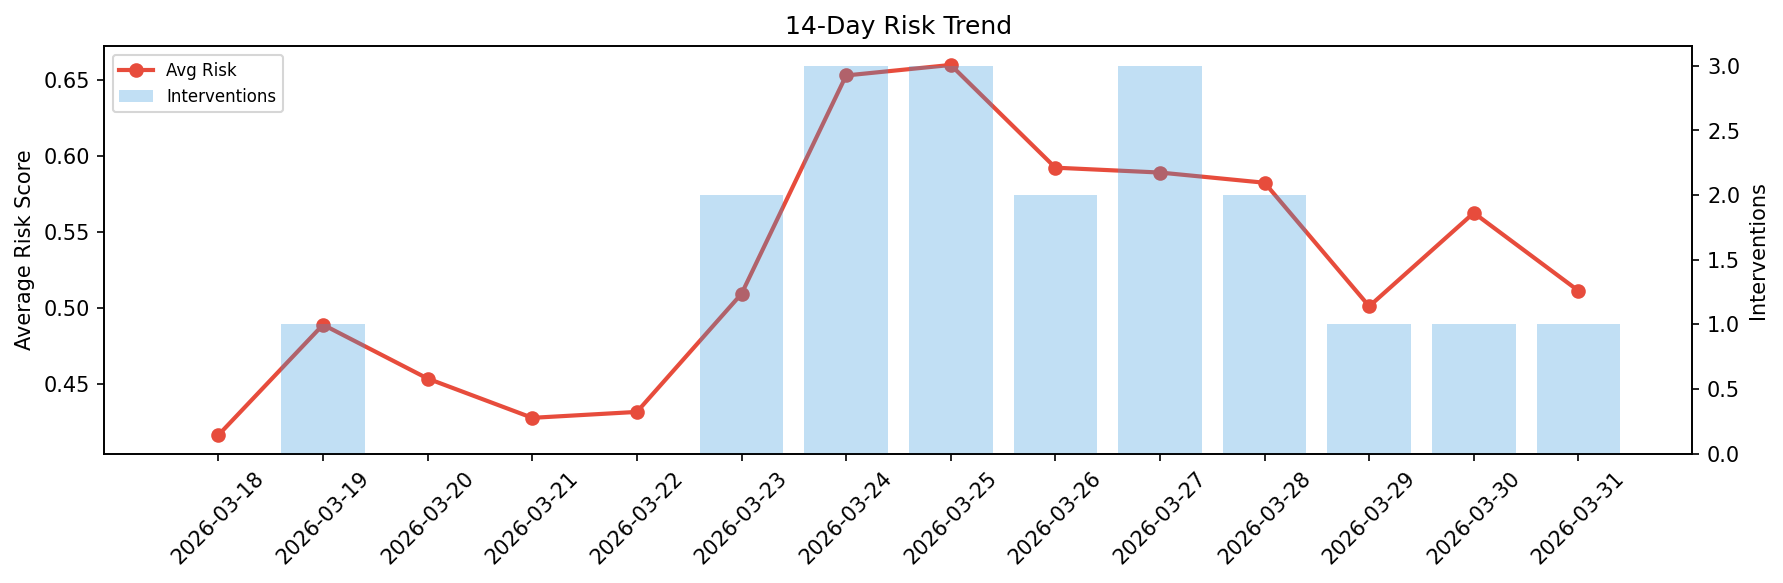
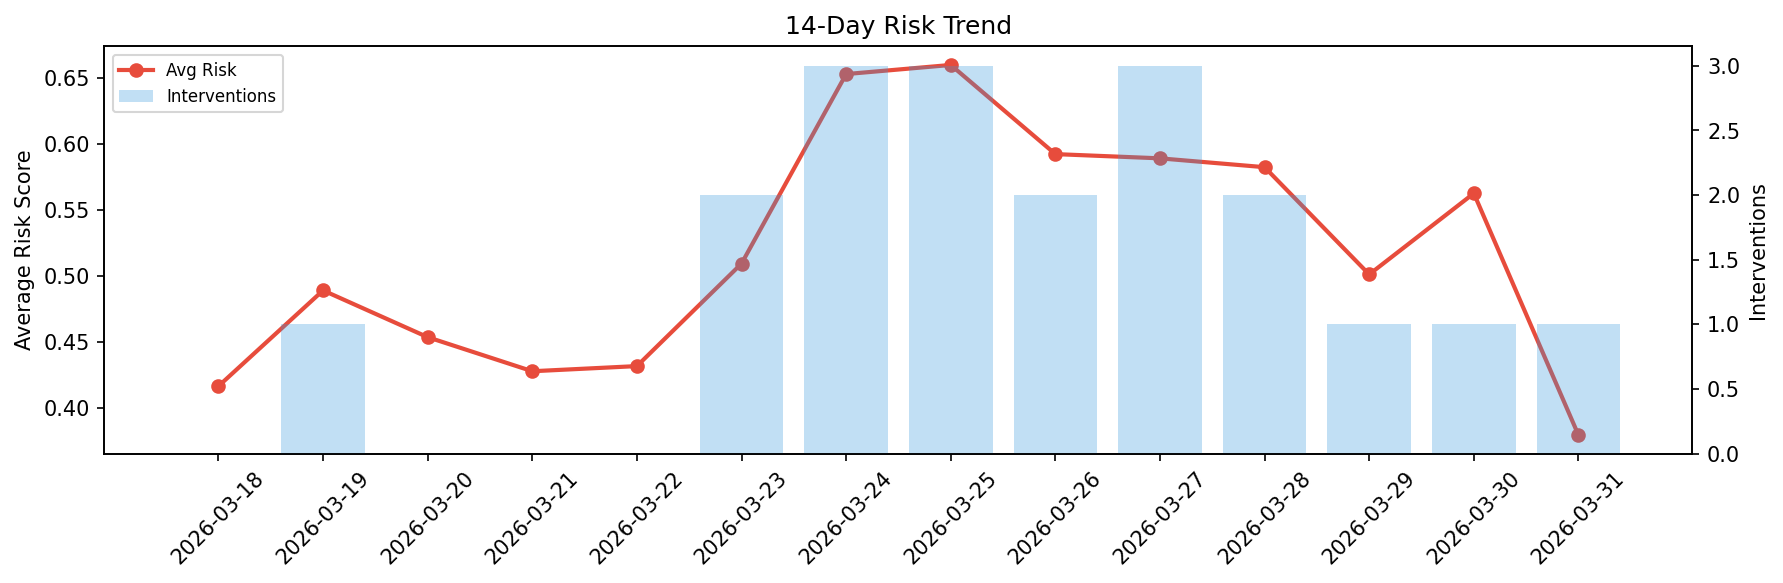
agent-improvement: daily cycle 2026-03-31T15:36

diff --git a/logs/2026-03-31.md b/logs/2026-03-31.md
@@ -1,6 +1,6 @@
 # Agent Improvement Report — 2026-03-31
 
-**Cycle ID:** `fa58467a` | **Avg Risk:** 0.5112 | **Interventions:** 1/4
+**Cycle ID:** `9a459270` | **Avg Risk:** 0.3794 | **Interventions:** 1/4
 
 ![Dashboard](2026-03-31_dashboard.png)
 
@@ -10,18 +10,18 @@
 
 | Domain | Risk Score | Decision | Alerts |
 |--------|-----------|----------|--------|
-| code_review | 0.5565 | monitor | coverage |
-| incident_response | 0.6119 | intervene | mttr |
-| data_pipeline | 0.4576 | monitor | none |
-| deployment | 0.419 | monitor | latency_p99 |
+| code_review | 0.5583 | monitor | complexity, duplication |
+| incident_response | 0.124 | monitor | none |
+| data_pipeline | 0.1555 | monitor | none |
+| deployment | 0.6799 | intervene | none |
 
 ## Delta vs Yesterday
 
 | Domain | Today | Yesterday | Change |
 |--------|-------|-----------|--------|
-| code_review | 0.5565 | 0.7883 | 📉 -29.4% |
-| incident_response | 0.6119 | 0.5852 | 📈 4.6% |
-| data_pipeline | 0.4576 | 0.446 | 📈 2.6% |
-| deployment | 0.419 | 0.43 | 📉 -2.6% |
+| code_review | 0.5583 | 0.7883 | 📉 -29.2% |
+| incident_response | 0.124 | 0.5852 | 📉 -78.8% |
+| data_pipeline | 0.1555 | 0.446 | 📉 -65.1% |
+| deployment | 0.6799 | 0.43 | 📈 58.1% |
 
-**Refinement:** `{'adjustment': 'maintain', 'trend': 'improving', 'window': 4}`
+**Refinement:** `{'adjustment': 'tighten_thresholds', 'trend': 'degrading', 'window': 4}`
